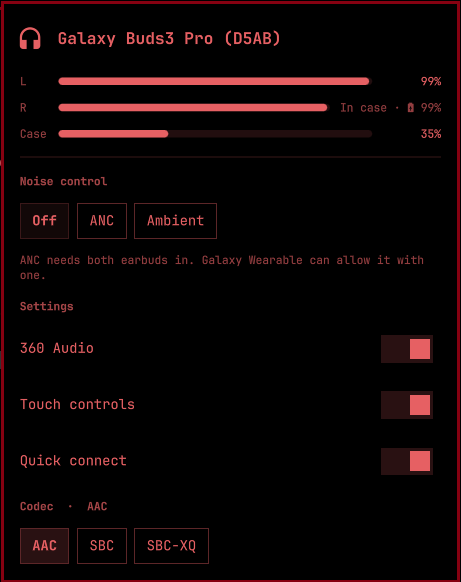
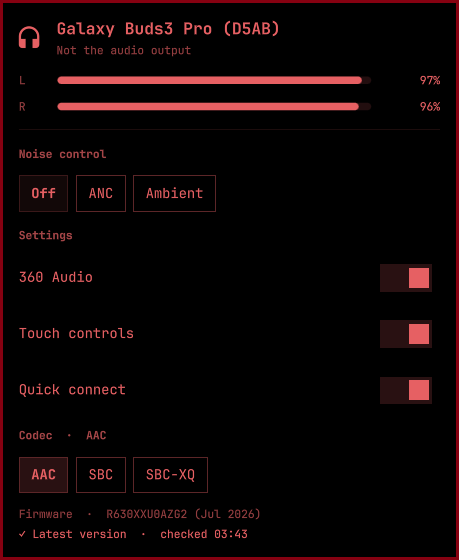
chore: release 2.3.1 with new screenshots
Fresh listing image from a Buds3 Pro on the latest firmware (status line
confirming it), the in-case capture moved to the Battery section, and a
new bar strip. Ships the install-result acknowledgement and the probe
tool fixes; light control stays shelved.

diff --git a/CHANGELOG.md b/CHANGELOG.md
@@ -4,6 +4,20 @@ All notable changes to this project are documented here. The format follows
 [Keep a Changelog](https://keepachangelog.com/en/1.1.0/) and the project uses
 [Semantic Versioning](https://semver.org/).
 
+## [2.3.1] - 2026-09-24
+
+### Fixed
+- After a firmware install the earbuds repeat their result (`185 00 00`) on every connect until it
+  is acknowledged; the helper now answers it, as Samsung's app does.
+- `tools/eq-probe.py` could never connect: D-Bus object paths may not contain `-`.
+
+### Added
+- `tools/light-probe.py` (watch, scan, find, pulse modes) and a write-up in CONTRIBUTING of what the
+  Buds3 Pro blade lights do and do not answer. Light control itself is not shipped yet.
+
+### Changed
+- New screenshots from a Buds3 Pro on the latest firmware.
+
 ## [2.3.0] - 2026-09-24
 
 ### Added
@@ -94,6 +108,7 @@ First release as `io.github.akafrmn.galaxy-buds-pro`, based on
 - Plugin id is now `io.github.akafrmn.galaxy-buds-pro`. Remove `aislandener.galaxy-buds` before
   installing: only one program can hold the earbuds' control link.
 
+[2.3.1]: https://github.com/akafrmn/omarchy-galaxy-buds-pro/releases/tag/v2.3.1
 [2.3.0]: https://github.com/akafrmn/omarchy-galaxy-buds-pro/releases/tag/v2.3.0
 [2.2.0]: https://github.com/akafrmn/omarchy-galaxy-buds-pro/releases/tag/v2.2.0
 [2.1.1]: https://github.com/akafrmn/omarchy-galaxy-buds-pro/releases/tag/v2.1.1

diff --git a/README.md b/README.md
@@ -8,7 +8,7 @@ Samsung **Galaxy Buds Pro, Buds2 Pro, Buds3 Pro and Buds4 Pro** in the Omarchy
 bar: noise control, per-earbud and case battery, low battery warnings, the
 Bluetooth codec, 360 Audio, touch controls and quick connect.
 
-![The panel on a Galaxy Buds3 Pro: left bud worn, right bud charging in the case, and why ANC is off](preview.png)
+![The panel on a Galaxy Buds3 Pro: battery, noise control, settings, codec, and the installed firmware confirmed as the latest (sound was going to the laptop speakers, hence "Not the audio output")](preview.png)
 
 The icon follows the earbuds, not the other way around: change the mode by
 touching an earbud or from your phone and the bar updates immediately.
@@ -179,6 +179,8 @@ A charging bud counts as "in the case" even when its placement says otherwise.
 Buds4 Pro reports a freshly docked bud as out of the ear for a moment. The case
 only reports its own charge while at least one bud sits in it, so that row
 comes and goes.
+
+![Left bud worn, right bud charging in the open case, and why ANC is off](docs/in-case.png)
 
 ## Noise control with one earbud
 
